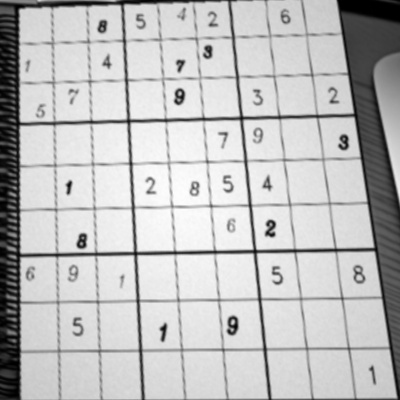
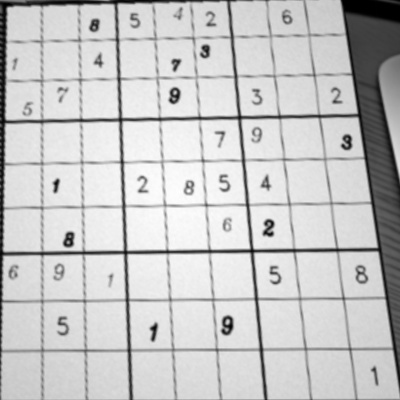
grid detector class final version (hopefully)

diff --git a/detectorClass.py b/detectorClass.py
@@ -21,28 +21,49 @@ class SudokuDetector:
 
         best_score = -1
         best_result = None
-        best_points = None
+        # best_points = None
 
         for i, strategy in enumerate(strategies):
             try:
-                result, points = strategy(image.copy())
-                score = self._evaluate_grid_quality(result)
+                result = strategy(image.copy())
+                if isinstance(result, list):
+                    for j, res in enumerate(result):
+                        score = self._evaluate_grid_quality(res)
+                        if score > best_score:
+                            best_score = score
+                            best_result = res
+                            # best_points = points
+                else:
+                    score = self._evaluate_grid_quality(result)
+                    if score > best_score:
+                        best_score = score
+                        best_result = result
+                        # best_points = points
                     
                 if self.debug:
-                    print(f"Strategy {i+1} score: {score}")
-                    plt.figure(figsize=(10, 5))
-                    plt.subplot(121)
-                    plt.imshow(cv2.cvtColor(img, cv2.COLOR_BGR2RGB))
-                    plt.title('Original')
-                    plt.subplot(122)
-                    plt.imshow(cv2.cvtColor(result, cv2.COLOR_BGR2RGB))
-                    plt.title(f'Strategy {i+1} (Score: {score:.2f})')
-                    plt.show()
-                
-                if score > best_score:
-                    best_score = score
-                    best_result = result
-                    best_points = points
+                    if isinstance(result, list):
+                        for j, res in enumerate(result):
+                            score = self._evaluate_grid_quality(res)
+                            print(f"Strategy {i+j+1} score: {score}")
+                            plt.figure(figsize=(10, 5))
+                            plt.subplot(121)
+                            plt.imshow(cv2.cvtColor(img, cv2.COLOR_BGR2RGB))
+                            plt.title('Original')
+                            plt.subplot(122)
+                            plt.imshow(cv2.cvtColor(res, cv2.COLOR_BGR2RGB))
+                            plt.title(f'Strategy {i+j+1} (Score: {score:.2f})')
+                            plt.show()
+                    else: 
+                        score = self._evaluate_grid_quality(result)
+                        print(f"Strategy {i+1} score: {score}")
+                        plt.figure(figsize=(10, 5))
+                        plt.subplot(121)
+                        plt.imshow(cv2.cvtColor(img, cv2.COLOR_BGR2RGB))
+                        plt.title('Original')
+                        plt.subplot(122)
+                        plt.imshow(cv2.cvtColor(result, cv2.COLOR_BGR2RGB))
+                        plt.title(f'Strategy {i+1} (Score: {score:.2f})')
+                        plt.show()
 
             except Exception as e:
                 if self.debug:
@@ -50,7 +71,7 @@ class SudokuDetector:
                 continue
         
         if best_score > 0:
-            return best_result, best_points, True
+            return best_result, True
         else:
             # Fallback to the original image with a message
             cv2.putText(img, "Detection failed", (20, 40), 
@@ -75,52 +96,79 @@ class SudokuDetector:
             
             horizontal_lines = []
             vertical_lines = []
+            img_with_lines = cv2.cvtColor(grid, cv2.COLOR_GRAY2BGR)  # Convert to color for visualization
+
             for line in lines:
                 rho, theta = line[0]
-                if (theta < 0.26) or (theta > 2.88):  
+                if (theta < 0.1) or (theta > 3):  
                     vertical_lines.append(rho)
-                elif (theta > 1.44) and (theta < 1.70):  
+                elif (theta > 1.5) and (theta < 1.6):  
                     horizontal_lines.append(rho)
+
+                # Draw the line on the image
+                a, b = np.cos(theta), np.sin(theta)
+                x0, y0 = a * rho, b * rho
+                pt1 = (int(x0 + 1000 * (-b)), int(y0 + 1000 * (a)))
+                pt2 = (int(x0 - 1000 * (-b)), int(y0 - 1000 * (a)))
+                cv2.line(img_with_lines, pt1, pt2, (0, 255, 0), 1)
+
             horizontal_lines.sort()
             vertical_lines.sort()
 
             horizontal_lines = self.group_lines(horizontal_lines)
             vertical_lines = self.group_lines(vertical_lines)
 
-            # Plot the image with detected lines
+            # # Plot the image with detected lines
             # if self.debug:
-            #     img_with_lines = cv2.cvtColor(grid, cv2.COLOR_GRAY2BGR)
+            #     plt.figure(figsize=(15, 10))
+            #     plt.subplot(131)
+            #     plt.imshow(cv2.cvtColor(img_with_lines, cv2.COLOR_BGR2RGB))
+            #     plt.title('All Detected Lines')
+
+            #     # Plot horizontal lines
+            #     horizontal_img = np.zeros_like(img_with_lines)
             #     for rho in horizontal_lines:
             #         a, b = np.cos(np.pi / 2), np.sin(np.pi / 2)
             #         x0, y0 = a * rho, b * rho
             #         pt1 = (int(x0 + 1000 * (-b)), int(y0 + 1000 * (a)))
             #         pt2 = (int(x0 - 1000 * (-b)), int(y0 - 1000 * (a)))
-            #         cv2.line(img_with_lines, pt1, pt2, (0, 255, 0), 2)
+            #         cv2.line(horizontal_img, pt1, pt2, (0, 255, 0), 1)
+            #     plt.subplot(132)
+            #     plt.imshow(cv2.cvtColor(horizontal_img, cv2.COLOR_BGR2RGB))
+            #     plt.title('Horizontal Lines')
+
+            #     # Plot vertical lines
+            #     vertical_img = np.zeros_like(img_with_lines)
             #     for rho in vertical_lines:
             #         a, b = np.cos(0), np.sin(0)
             #         x0, y0 = a * rho, b * rho
             #         pt1 = (int(x0 + 1000 * (-b)), int(y0 + 1000 * (a)))
             #         pt2 = (int(x0 - 1000 * (-b)), int(y0 - 1000 * (a)))
-            #         cv2.line(img_with_lines, pt1, pt2, (255, 0, 0), 2)
-            #     plt.figure(figsize=(10, 5))
-            #     plt.imshow(cv2.cvtColor(img_with_lines, cv2.COLOR_BGR2RGB))
-            #     plt.title('Detected Lines')
+            #         cv2.line(vertical_img, pt1, pt2, (0, 255, 0), 1)
+            #     plt.subplot(133)
+            #     plt.imshow(cv2.cvtColor(vertical_img, cv2.COLOR_BGR2RGB))
+            #     plt.title('Vertical Lines')
+
             #     plt.show()
-            
+
             h_position_score = 0.0
             v_position_score = 0.0
+            print(f"Horizontal lines: {horizontal_lines}, \n Vertical lines: {vertical_lines}")
+            print(grid.shape)
             
             if len(horizontal_lines) >= 7:
-                h_position_score = (1 - abs(horizontal_lines[0]) / grid.shape[0]) + (1 - abs(horizontal_lines[-1] - grid.shape[0]) / grid.shape[0])
+                h_position_score = abs(horizontal_lines[0] - grid.shape[0]) / grid.shape[0] + abs(horizontal_lines[-1]) / grid.shape[0]
                 h_position_score = max(0, h_position_score / 2)  
 
             if len(vertical_lines) >= 7:
-                v_position_score = (1 - abs(vertical_lines[0]) / grid.shape[1]) + (1 - abs(vertical_lines[-1] - grid.shape[1]) / grid.shape[1])
+                v_position_score = abs(vertical_lines[0]) / grid.shape[1] + abs(vertical_lines[-1]) / grid.shape[1]
                 v_position_score = max(0, v_position_score / 2)  
 
-            h_score = min(len(horizontal_lines) / 9, 1.0) * 0.8 + h_position_score * 0.2
-            v_score = min(len(vertical_lines) / 9, 1.0) * 0.8 + v_position_score * 0.2
+            h_score = min(len(horizontal_lines) / 10, 1.0) * 0.5 + h_position_score * 0.5
+            v_score = min(len(vertical_lines) / 10, 1.0) * 0.5 + v_position_score * 0.5
             
+            #(1-abs(10-len(horizontal_lines))/10)
+
             final_score = 0.5 * h_score + 0.5 * v_score
             
             if self.debug:
@@ -194,7 +242,7 @@ class SudokuDetector:
     def _strategy_blur(self, img, kernel_size=17):
         if (kernel_size < 1):  # Base case to prevent infinite recursion
             print("Kernel size too small to continue processing.")
-            return np.zeros((self.size, self.size, 3), np.uint8), None
+            return np.zeros((self.size, self.size, 3), np.uint8)
         
         imgGray = cv2.cvtColor(img, cv2.COLOR_BGR2GRAY)
         imgBlur = cv2.GaussianBlur(imgGray, (kernel_size, kernel_size), 0)
@@ -211,14 +259,14 @@ class SudokuDetector:
         edges = cv2.Canny(imgWarpColored, 50, 150)
         lines = cv2.HoughLinesP(edges, 1, np.pi/180, threshold=100, minLineLength=80, maxLineGap=10)
         if lines is None:
-            imgWarpColored, biggest_contour = self._strategy_blur(img, kernel_size - 2)
+            imgWarpColored = self._strategy_blur(img, kernel_size - 2)
 
-        return imgWarpColored, biggest_contour
+        return imgWarpColored
     
     def _strategy_laplacian_kernel(self, img, c=3):
         if c < 1:  
             print("Kernel size too small to continue processing.")
-            return np.zeros((self.size, self.size, 3), np.uint8), None
+            return np.zeros((self.size, self.size, 3), np.uint8)
         imgGray = cv2.cvtColor(img, cv2.COLOR_BGR2GRAY)
         imgLaplacian1 = cv2.Laplacian(imgGray, cv2.CV_64F)
         imgLaplacian2 = cv2.convertScaleAbs(imgLaplacian1)
@@ -235,38 +283,46 @@ class SudokuDetector:
         edges = cv2.Canny(imgWarpColored, 50, 150)
         lines = cv2.HoughLinesP(edges, 1, np.pi/180, threshold=100, minLineLength=80, maxLineGap=10)
         if lines is None:
-            imgWarpColored, biggest_contour = self._strategy_laplacian_kernel(img, c - 1)
+            imgWarpColored = self._strategy_laplacian_kernel(img, c - 1)
         
-        return imgWarpColored, biggest_contour
+        return imgWarpColored
     
-    def _strategy_hough_lines_p(self, img, min_line_length=50, max_line_gap=10):
-        """
-        Strategy using cv2.HoughLinesP for grid detection.
-        """
+    def _strategy_hough_lines_p(self, img, min_line_length=50, max_line_gap=10, kernels = [5,7]):
+        imgWarpColored_list = []
+
+        def lines_detection(imgGray):
+            edges = cv2.Canny(imgGray, 50, 150)
+            lines = cv2.HoughLinesP(edges, 1, np.pi / 180, threshold=100, 
+                                    minLineLength=min_line_length, maxLineGap=max_line_gap)
+
+            if lines is None:
+                if self.debug:
+                    print("No lines detected using HoughLinesP.")
+                return np.zeros((self.size, self.size, 3), np.uint8), None
+
+            # Draw detected lines on a blank image
+            line_img = np.zeros_like(img)
+            for line in lines:
+                x1, y1, x2, y2 = line[0]
+                cv2.line(line_img, (x1, y1), (x2, y2), (255, 255, 255), 2)
+
+            # Find contours from the line image
+            contours, _ = cv2.findContours(cv2.cvtColor(line_img, cv2.COLOR_BGR2GRAY), 
+                                        cv2.RETR_EXTERNAL, cv2.CHAIN_APPROX_SIMPLE)
+            biggest_contour, _, _ = self.biggestContour(contours, img)
+
+            imgWarpColored = self.extract_grid(img, biggest_contour)
+            imgWarpColored_list.append(imgWarpColored)
+        
         imgGray = cv2.cvtColor(img, cv2.COLOR_BGR2GRAY)
-        edges = cv2.Canny(imgGray, 50, 150)
-        lines = cv2.HoughLinesP(edges, 1, np.pi / 180, threshold=100, 
-                                minLineLength=min_line_length, maxLineGap=max_line_gap)
+        lines_detection(imgGray)
 
-        if lines is None:
-            if self.debug:
-                print("No lines detected using HoughLinesP.")
-            return np.zeros((self.size, self.size, 3), np.uint8), None
+        for kernel in kernels:
+            imgGray = cv2.cvtColor(img, cv2.COLOR_BGR2GRAY)
+            imgBlur = cv2.GaussianBlur(imgGray, (kernel, kernel), 0)
+            lines_detection(imgBlur)
 
-        # Draw detected lines on a blank image
-        line_img = np.zeros_like(img)
-        for line in lines:
-            x1, y1, x2, y2 = line[0]
-            cv2.line(line_img, (x1, y1), (x2, y2), (255, 255, 255), 2)
-
-        # Find contours from the line image
-        contours, _ = cv2.findContours(cv2.cvtColor(line_img, cv2.COLOR_BGR2GRAY), 
-                                       cv2.RETR_EXTERNAL, cv2.CHAIN_APPROX_SIMPLE)
-        biggest_contour, _, _ = self.biggestContour(contours, img)
-
-        imgWarpColored = self.extract_grid(img, biggest_contour)
-
-        return imgWarpColored, biggest_contour
+        return imgWarpColored_list
     
     def process_dataset(self, folder_path, output_folder=None):
         if not os.path.exists(folder_path):
@@ -299,7 +355,7 @@ class SudokuDetector:
                     stats['failure'] += 1
                     continue
                 
-                result, points, success = self.detect(image)
+                result, success = self.detect(image)
                 
                 if success:
                     stats['success'] += 1  
@@ -309,6 +365,14 @@ class SudokuDetector:
                         cv2.imwrite(result_path, result)
                     
                     if self.debug:
+                        plt.figure(figsize=(10, 5))
+                        plt.subplot(121)
+                        plt.imshow(cv2.cvtColor(image, cv2.COLOR_BGR2RGB))
+                        plt.title('Original')
+                        plt.subplot(122)
+                        plt.imshow(cv2.cvtColor(result, cv2.COLOR_BGR2RGB))
+                        plt.title('Extracted Grid')
+                        plt.show()
                         print(f"Successfully processed {filename} ({i+1}/{len(image_files)})")
                         
                 else:
@@ -331,22 +395,22 @@ class SudokuDetector:
         return stats
 
 
-# Example usage:
+# # Example usage:
 detector = SudokuDetector(debug=True)
 
-# # Process a single image
-# image = cv2.imread('sample/sample_valid_grids/valid_grid_5_2025-04-28_13-07-23.png')
-# result, points, success = detector.detect(image)
+# Process a single image
+image = cv2.imread('sample/sample_valid_grids/valid_grid_10_2025-04-28_15-55-03.png')
+result, success = detector.detect(image)
 
-# if success and points is not None:
-#     plt.figure(figsize=(10, 5))
-#     plt.subplot(121)
-#     plt.imshow(cv2.cvtColor(image, cv2.COLOR_BGR2RGB))
-#     plt.title('Original')
-#     plt.subplot(122)
-#     plt.imshow(cv2.cvtColor(result, cv2.COLOR_BGR2RGB))
-#     plt.title('Extracted Grid')
-#     plt.show()
+if success:
+    plt.figure(figsize=(10, 5))
+    plt.subplot(121)
+    plt.imshow(cv2.cvtColor(image, cv2.COLOR_BGR2RGB))
+    plt.title('Original')
+    plt.subplot(122)
+    plt.imshow(cv2.cvtColor(result, cv2.COLOR_BGR2RGB))
+    plt.title('Extracted Grid')
+    plt.show()
 
-# Process an entire dataset
-stats = detector.process_dataset('sample/sample_valid_grids', 'sample/sample_extracted_valid_grids')
+# # Process an entire dataset
+# stats = detector.process_dataset('sample/sample_valid_grids', 'sample/sample_extracted_valid_grids')

diff --git a/hough_line_detection.py b/hough_line_detection.py
@@ -2,11 +2,11 @@ import numpy as np
 import cv2
 import matplotlib.pyplot as plt  
 
-def preProcess(img, min_line_length=50, max_line_gap=10, size=400):
+def preProcess(img, min_line_length=1, max_line_gap=10, size=400):
     imgGray = cv2.cvtColor(img, cv2.COLOR_BGR2GRAY)
+    imgBlur = cv2.GaussianBlur(imgGray, (0, 0), 0)
     edges = cv2.Canny(imgGray, 50, 150)
-    lines = cv2.HoughLinesP(edges, 1, np.pi / 180, threshold=100, 
-                                minLineLength=min_line_length, maxLineGap=max_line_gap)
+    lines = cv2.HoughLinesP(edges, 1, np.pi / 180, threshold=100, minLineLength=min_line_length, maxLineGap=max_line_gap)
     if lines is None:
         print("No lines detected using HoughLinesP.")
         return np.zeros((size, size, 3), np.uint8), None
@@ -18,8 +18,8 @@ def preProcess(img, min_line_length=50, max_line_gap=10, size=400):
         cv2.line(line_img, (x1, y1), (x2, y2), (255, 255, 255), 2)
 
     # Display all images together
-    images = [imgGray, line_img]
-    titles = ["Grayscale Image", "Line Image"]
+    images = [imgGray, edges, line_img]
+    titles = ["Grayscale Image","Canny Image", "Line Image"]
 
     plt.figure(figsize=(10, 8))
     for i, (image, title) in enumerate(zip(images, titles)):
